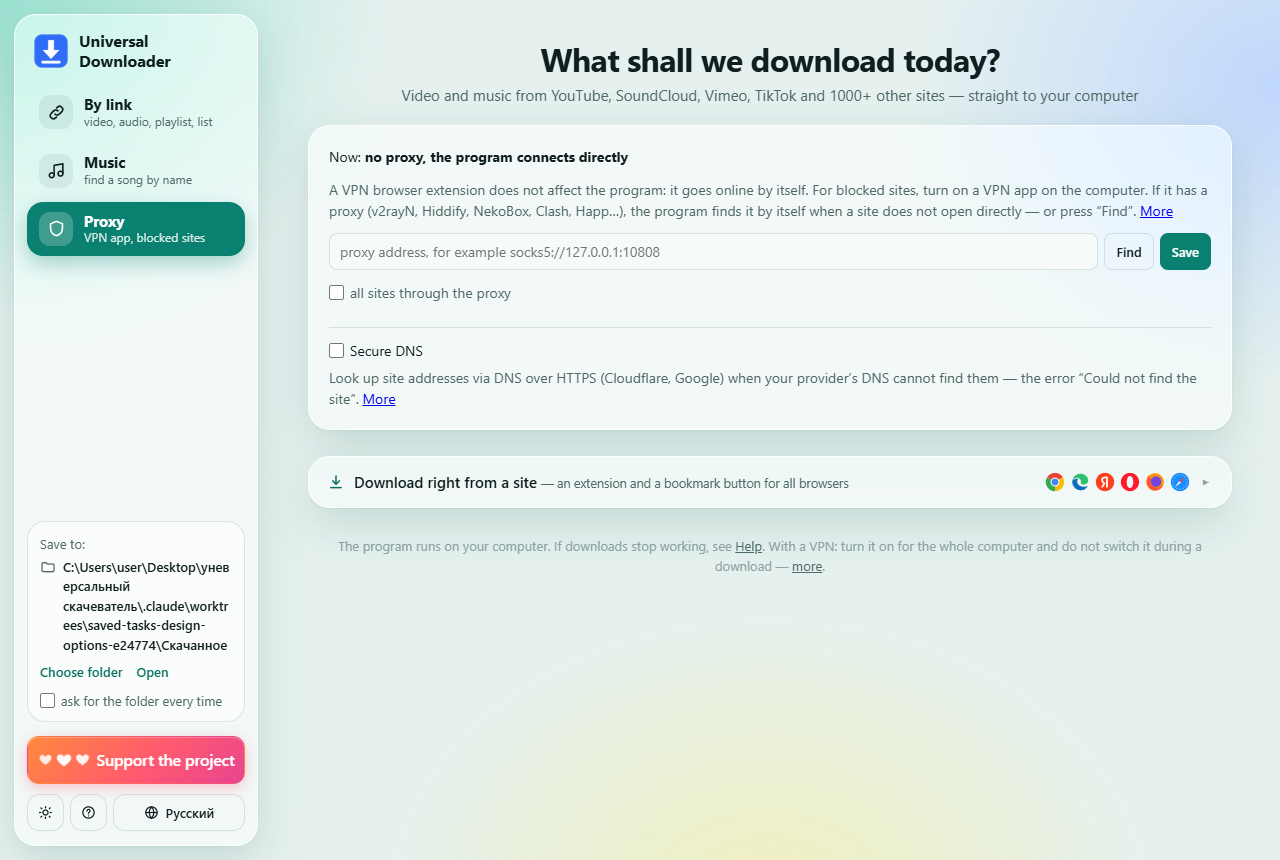
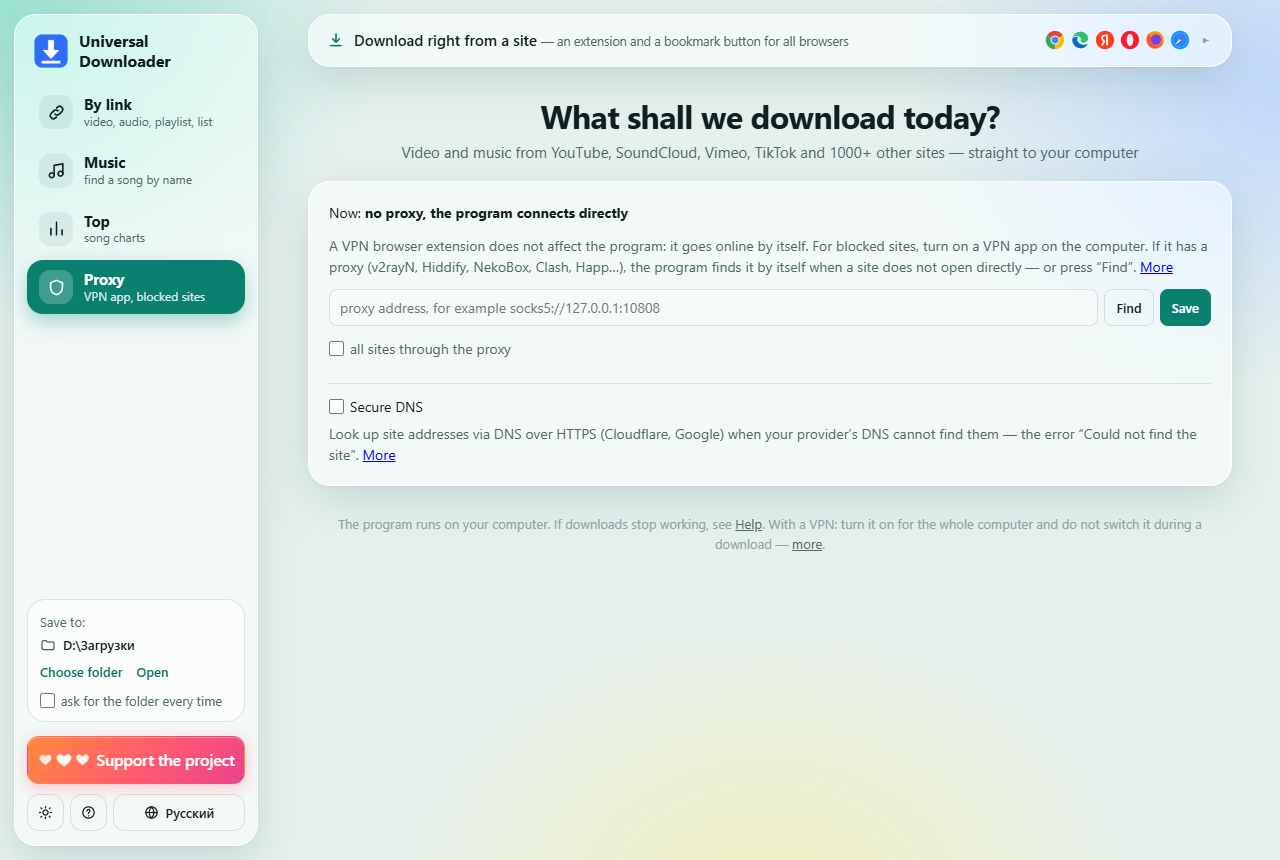
README: новые скриншоты (вкладка «Топ» в панели, снимок вкладки «Топ»), раздел «Топ» в «Как пользоваться»

Changed region(s): [[0.2188, 0.0, 0.9688, 0.6651], [0.0, 0.2116, 0.2188, 0.393], [0.0312, 0.6349, 0.1875, 0.7558]]

diff --git a/README.md b/README.md
@@ -20,7 +20,7 @@
 
 Всё работает у вас на компьютере: без рекламы, без регистрации и без чужих серверов. Python ставить не нужно, программа установит всё нужное сама.
 
-![Главная страница: слева панель с вкладками «По ссылке», «Музыка» и «VPN», папкой загрузок и кнопкой «Помощь проекту»; в центре поле ссылки и карточка видео с вариантами MP4, MP3 и M4A](docs/screenshots/link.png)
+![Главная страница: слева панель с вкладками «По ссылке», «Музыка», «Топ» и «VPN», папкой загрузок и кнопкой «Помощь проекту»; в центре поле ссылки и карточка видео с вариантами MP4, MP3 и M4A](docs/screenshots/link.png)
 
 **[⬇ Скачать zip последней версии](https://github.com/OlegChe77/universal-downloader/releases/latest/download/universal-downloader.zip)** (`universal-downloader.zip`, сразу файл) · [страница релиза с описанием изменений](../../releases/latest)
 
@@ -54,6 +54,10 @@
 | Музыка: поиск по названию, галочки и «Скачать MP3 / M4A» | Прослушивание перед скачиванием |
 |---|---|
 | ![Вкладка «Музыка»: список из 10 песен, две отмечены галочками, сверху полоса «Выбрано 2 из 10» с кнопками «Скачать MP3» и «M4A»](docs/screenshots/music.png) | ![Плеер-«островок» над полем поиска: обложка, название, перемотка, громкость и кнопка MP3; песня в списке отмечена как играющая](docs/screenshots/player.png) |
+
+| Топ: самые слушаемые песни — русские и иностранные |
+|---|
+| ![Вкладка «Топ»: столбцы «Русские» (Яндекс Музыка, Россия, за сутки) и «Иностранные» (Spotify, мир, за неделю); первые три песни — карточками с обложкой и кнопками «Слушать» и «Скачать», дальше — список](docs/screenshots/top.png) |
 
 | Вкладка «VPN»: прокси для закрытых сайтов | Тёмная тема |
 |---|---|
@@ -116,6 +120,13 @@
 - **галочки**: выбрать несколько песен и скачать их одной кнопкой (MP3 или M4A, по очереди).
 
 Клавиши плеера: <kbd>Пробел</kbd> — пауза, <kbd>←</kbd> / <kbd>→</kbd> — перемотка.
+
+### Топ
+На вкладке **«Топ»** — 20 самых слушаемых песен: русские (чарт России Яндекс Музыки, слушатели за сутки) и иностранные (Spotify, мир, за неделю). Сама вкладка ничего не скачивает:
+- **Слушать**: песня играет в плеере;
+- **Скачать**: песня подставляется на вкладку «Музыка», и сразу идёт поиск — дальше как обычно.
+
+Списки обновляются раз в сутки.
 
 ### Скачать прямо с сайта
 Раскройте плашку **«Скачивать прямо с сайта»** вверху страницы. Там два способа:

diff --git a/README.en.md b/README.en.md
@@ -21,7 +21,7 @@ Everything runs on your computer: no ads, no sign-up, no third-party servers. Yo
 
 The interface is in English and Russian: the language button is at the top right of the page (by default — the language of Windows).
 
-![Main page: on the left, a panel with the “By link”, “Music” and “Proxy” tabs, the download folder and “Support the project”; in the center, the link field and a video card with MP4, MP3 and M4A options; below, the “Download right from a site” panel with Chrome, Edge, Yandex, Opera, Firefox and Safari icons](docs/screenshots/en/link.png)
+![Main page: on the left, a panel with the “By link”, “Music”, “Top” and “Proxy” tabs, the download folder and “Support the project”; in the center, the link field and a video card with MP4, MP3 and M4A options; below, the “Download right from a site” panel with Chrome, Edge, Yandex, Opera, Firefox and Safari icons](docs/screenshots/en/link.png)
 
 **[⬇ Download the latest version (zip)](https://github.com/OlegChe77/universal-downloader/releases/latest/download/universal-downloader.zip)** (`universal-downloader.zip`, direct file) · [release page with the changes](../../releases/latest)
 
@@ -48,6 +48,10 @@ The interface is in English and Russian: the language button is at the top right
 | Music: search by name, checkboxes and “Download MP3 / M4A” | Listen before downloading |
 |---|---|
 | ![The “Music” tab: a list of 10 songs, two checked, the “Selected 2 of 10” bar with “Download MP3” and “M4A” buttons](docs/screenshots/en/music.png) | ![The player “island” above the search field: cover, title, seek bar, volume and the MP3 button; the song in the list is marked as playing](docs/screenshots/en/player.png) |
+
+| Top: the most played songs — Russian and international |
+|---|
+| ![The “Top” tab: the “Russian” (Yandex Music, Russia, daily) and “International” (Spotify, worldwide, weekly) columns; the first three songs are cards with a cover and “Listen” and “Download” buttons, the rest is a list](docs/screenshots/en/top.png) |
 
 | The “Proxy” tab: for blocked sites | Dark theme |
 |---|---|
@@ -108,6 +112,13 @@ On the **“Music”** tab type an artist or song title. The search runs on YouT
 - **checkboxes**: select several songs and download them with one button (MP3 or M4A, one at a time).
 
 Player keys: <kbd>Space</kbd> — pause, <kbd>←</kbd> / <kbd>→</kbd> — seek.
+
+### Top
+The **“Top”** tab shows the 20 most played songs: Russian (the Yandex Music Russia chart, listeners per day) and international (Spotify, worldwide, weekly). The tab itself downloads nothing:
+- **Listen**: the song plays in the player;
+- **Download**: the song goes into the “Music” tab and the search starts — then as usual.
+
+The lists refresh once a day.
 
 ### Download right from a site
 Expand the **“Download right from a site”** panel at the top of the page. There are two ways:
